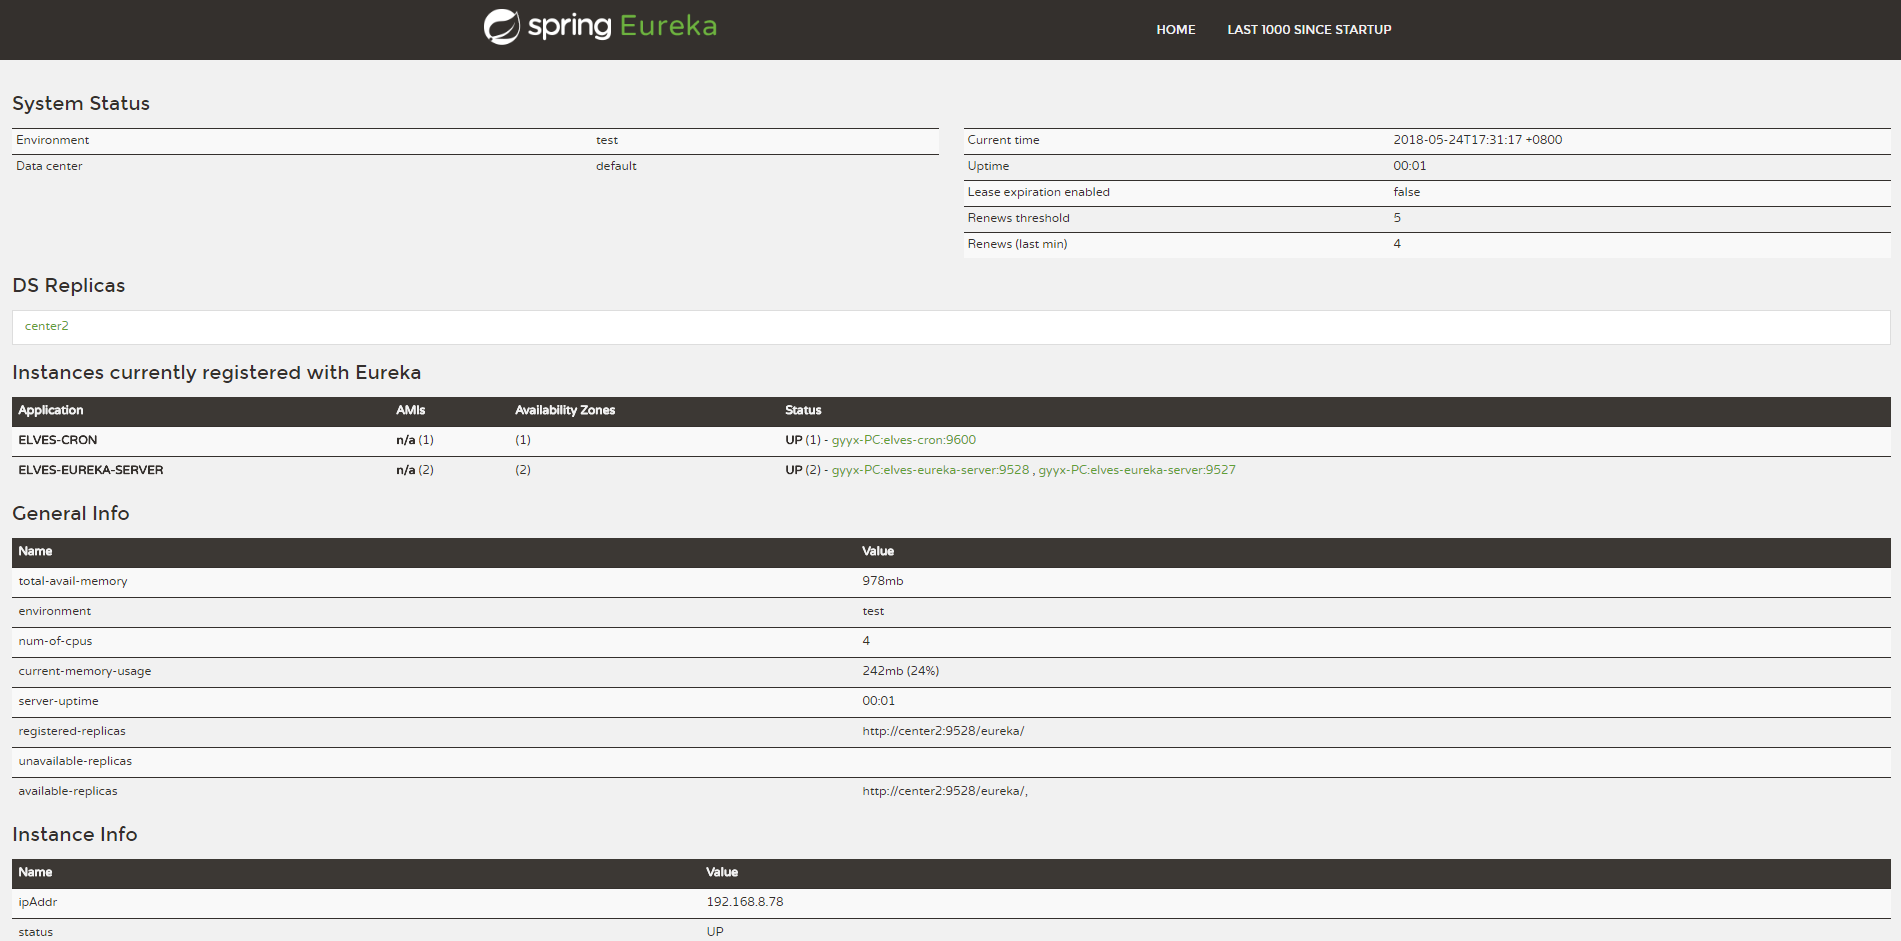
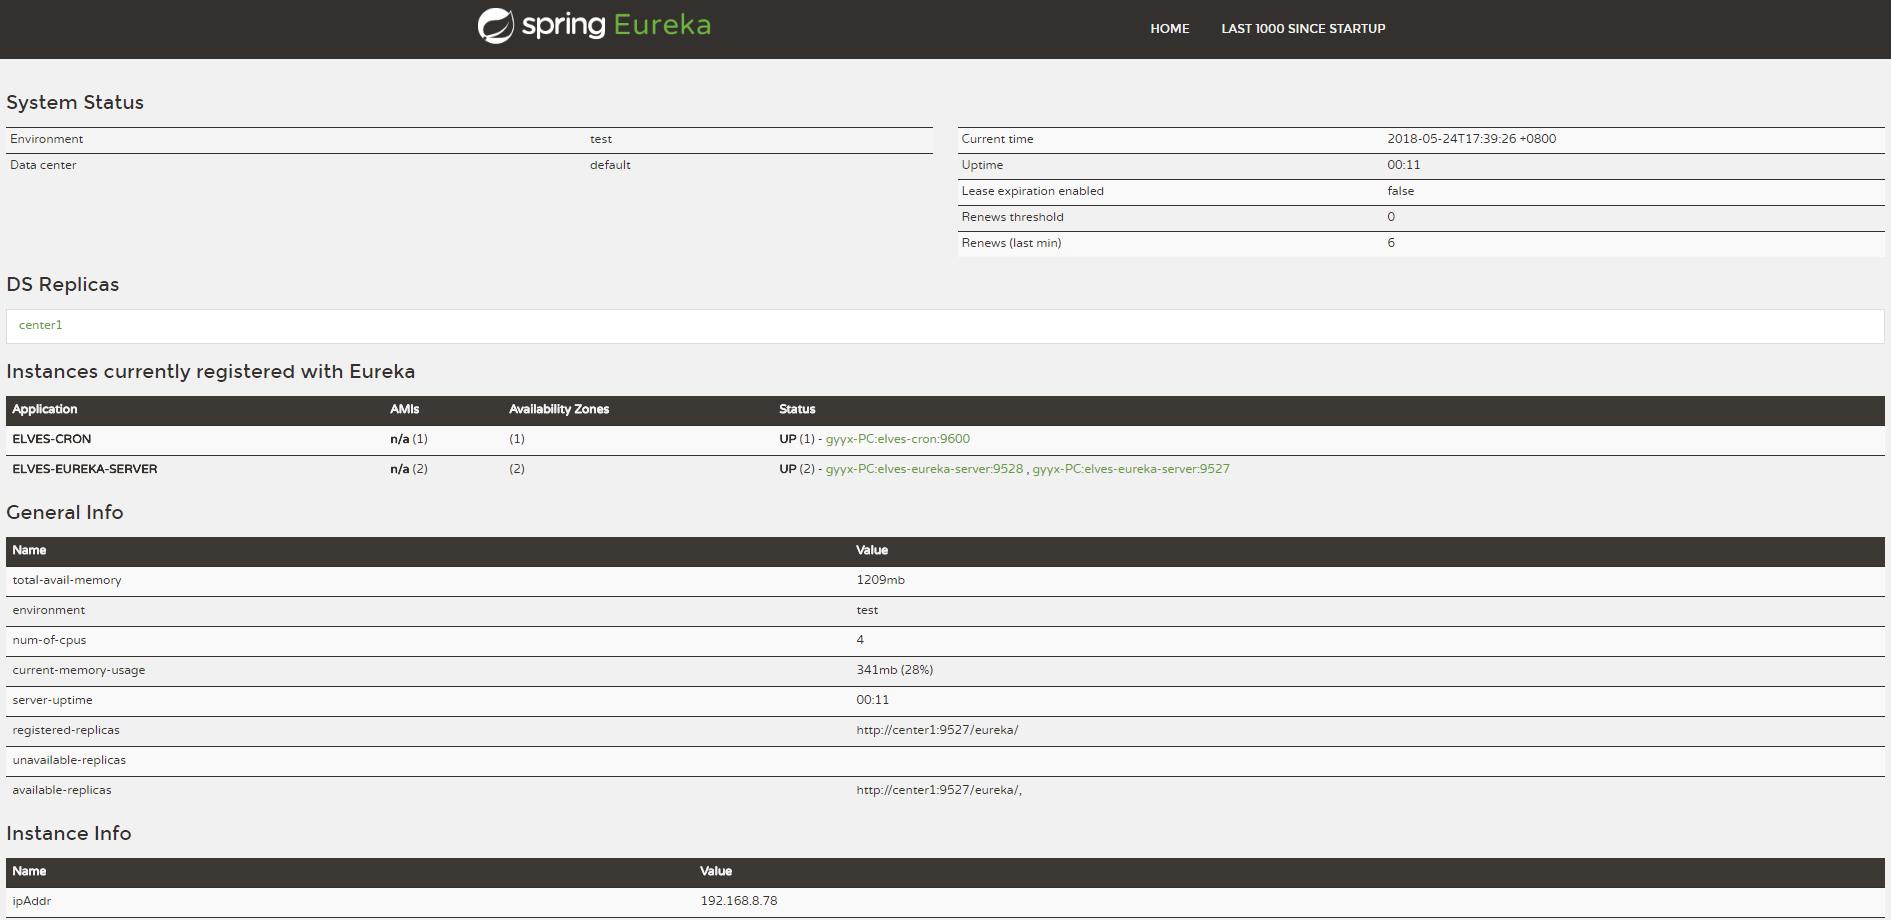
eureka截图

diff --git a/README.md b/README.md
@@ -15,3 +15,8 @@
 	java -jar --spring.profiles.active=center2
 
 
+输入地址： http://127.0.0.1:9527/
+
+
+
+输入地址： http://127.0.0.1:9528/
